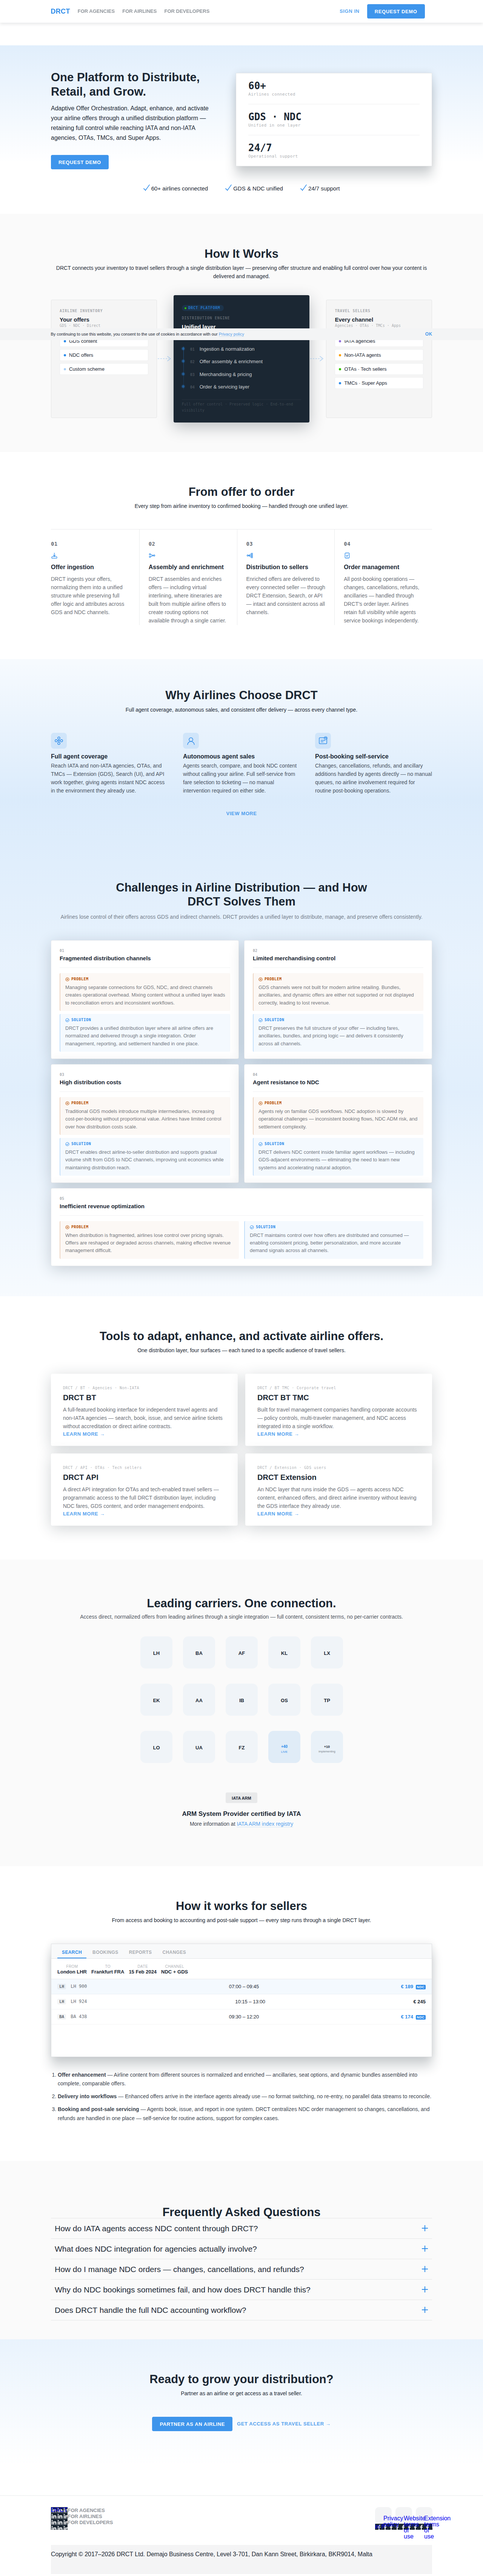
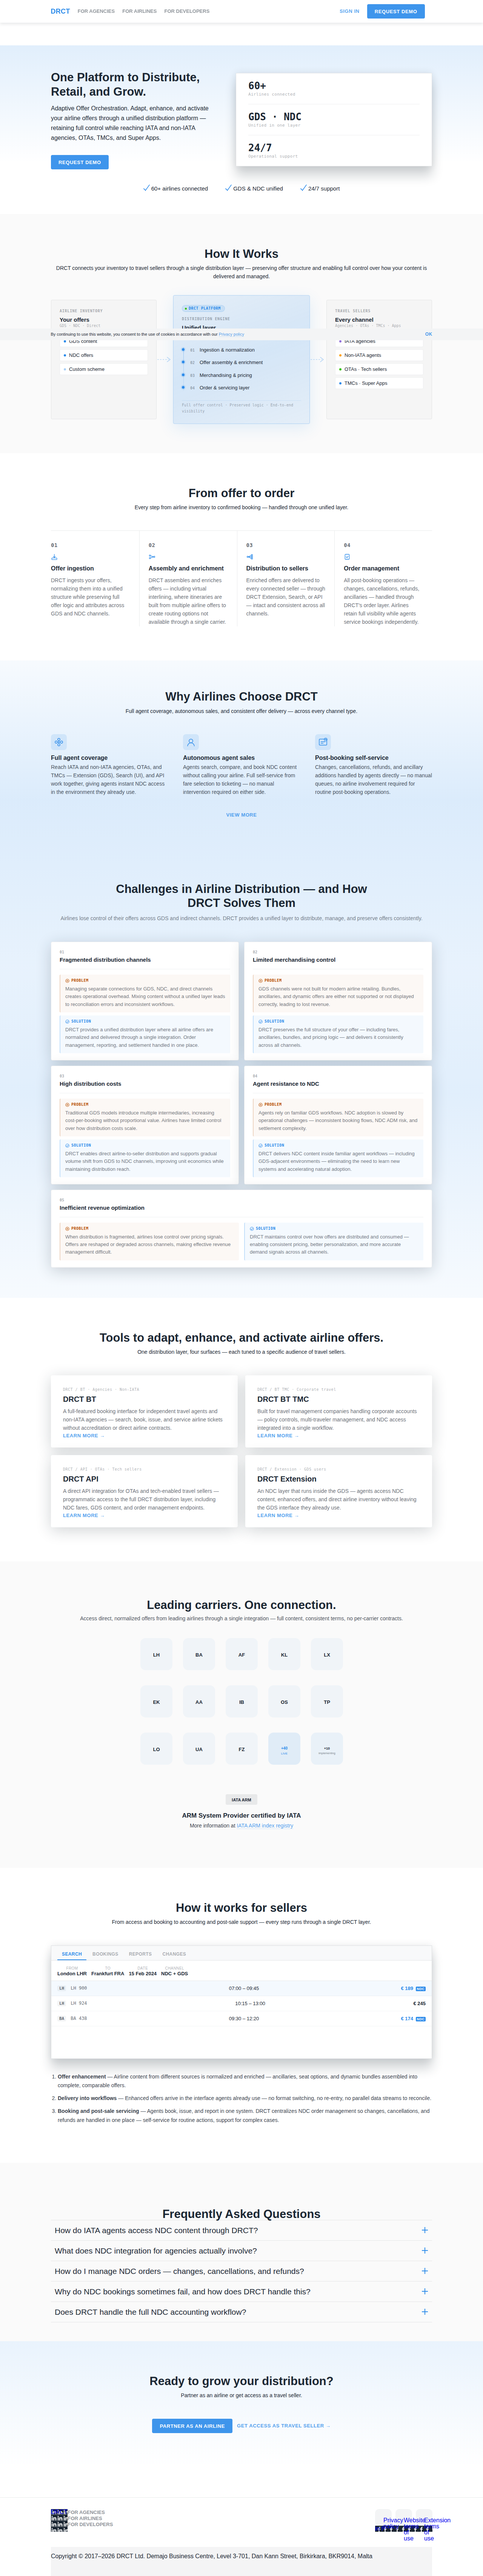
Switch How It Works core column from dark bg to light blue gradient

diff --git a/blocks/index.html b/blocks/index.html
@@ -58,9 +58,10 @@
       border: 1px solid rgba(27,39,51,0.08);
     }
     .flow-col--core {
-      background: var(--dark);
+      background: linear-gradient(160deg, rgba(42,138,234,0.10) 0%, rgba(42,138,234,0.18) 50%, rgba(42,138,234,0.10) 100%);
+      border: 1px solid rgba(42,138,234,0.22);
       border-radius: 4px;
-      box-shadow: 0 12px 40px rgba(27,39,51,0.28), 0 0 0 1px rgba(255,255,255,0.05);
+      box-shadow: 0 12px 40px rgba(42,138,234,0.12), 0 0 0 1px rgba(42,138,234,0.08);
       flex: 1.35;
       margin: -12px 0;
       z-index: 1;
@@ -83,7 +84,7 @@
       color: var(--dark-40);
       margin-bottom: 8px;
     }
-    .flow-eyebrow--w { color: rgba(255,255,255,0.28); }
+    .flow-eyebrow--w { color: var(--dark-40); }
     .flow-heading {
       font-size: 15px;
       font-weight: 700;
@@ -91,14 +92,14 @@
       margin-bottom: 2px;
       line-height: 1.3;
     }
-    .flow-heading--w { color: #fff; }
+    .flow-heading--w { color: var(--dark); }
     .flow-caption {
       font-family: var(--font-mono);
       font-size: 10px;
       color: var(--dark-40);
       margin-bottom: 20px;
     }
-    .flow-caption--w { color: rgba(255,255,255,0.25); }
+    .flow-caption--w { color: var(--dark-40); }
     .flow-items {
       display: flex;
       flex-direction: column;
@@ -127,13 +128,14 @@
       display: inline-flex;
       align-items: center;
       gap: 5px;
-      background: rgba(42,138,234,0.13);
+      background: rgba(42,138,234,0.12);
+      border: 1px solid rgba(42,138,234,0.2);
       border-radius: 20px;
       padding: 3px 10px 3px 7px;
       font-family: var(--font-mono);
       font-size: 10px;
       font-weight: 600;
-      color: rgba(42,138,234,0.75);
+      color: var(--blue);
       letter-spacing: 0.5px;
       text-transform: uppercase;
       margin-bottom: 14px;
@@ -158,7 +160,7 @@
       top: 10px;
       bottom: 10px;
       width: 1px;
-      background: linear-gradient(180deg, rgba(42,138,234,0.5) 0%, rgba(42,138,234,0.15) 100%);
+      background: linear-gradient(180deg, rgba(42,138,234,0.45) 0%, rgba(42,138,234,0.12) 100%);
     }
     .flow-pipe__step {
       position: relative;
@@ -175,28 +177,28 @@
       width: 7px;
       height: 7px;
       border-radius: 50%;
-      background: rgba(42,138,234,0.5);
-      box-shadow: 0 0 0 2px rgba(42,138,234,0.12);
+      background: var(--blue);
+      box-shadow: 0 0 0 3px rgba(42,138,234,0.15);
     }
     .flow-pipe__n {
       font-family: var(--font-mono);
       font-size: 10px;
       font-weight: 600;
-      color: rgba(255,255,255,0.2);
+      color: var(--dark-40);
       flex-shrink: 0;
       min-width: 16px;
     }
     .flow-pipe__text {
       font-size: 13px;
-      color: rgba(255,255,255,0.78);
+      color: var(--dark);
       line-height: 1.5;
     }
     .flow-core__note {
       font-family: var(--font-mono);
       font-size: 10px;
-      color: rgba(255,255,255,0.16);
+      color: var(--dark-40);
       padding-top: 4px;
-      border-top: 1px solid rgba(255,255,255,0.06);
+      border-top: 1px solid rgba(42,138,234,0.12);
       line-height: 1.6;
     }
 
